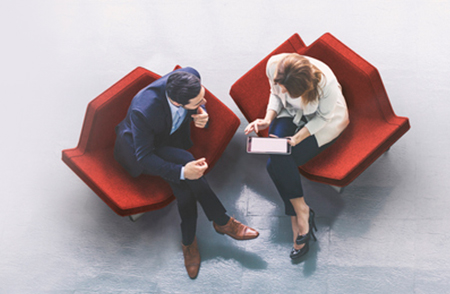
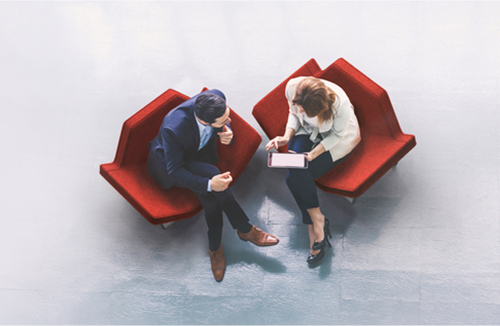
fix

diff --git a/source/index_vn.html b/source/index_vn.html
@@ -84,7 +84,7 @@ html {
                                   <td align="left" valign="top" style="margin: 0; padding: 15px 0; border: none; font-family: Arial, Helvetica, sans-serif !important; font-size: 16px; line-height: 1.3;">Chân thành cảm ơn Quý khách đã luôn đồng hành và tin chọn HSBC Premier trong hành trình tài chính và kết nối quốc tế của mình. Sự gắn bó của Quý khách là động lực để chúng tôi không ngừng nâng cao chất lượng dịch vụ và trải nghiệm.</td>
                                 </tr>
                                 <tr>
-                                  <td align="left" valign="top" style="margin: 0; padding: 0 0 0 15px; border-left: 2px solid #ed1c24; font-family: Arial, Helvetica, sans-serif !important; font-size: 16px; line-height: 1.3;">Trong tinh thần đó, chúng tôi hân hạnh thông báo một bước tiến mới: Phòng Giao Dịch HSBC Phú Mỹ Hưng sẽ được chuyển đến không gian mới cao cấp hơn.</td>
+                                  <td align="left" valign="top" style="margin: 0; padding: 0 0 0 15px; border-left: 2px solid #ed1c24; font-family: Arial, Helvetica, sans-serif !important; font-size: 16px; line-height: 1.3;">Trong tinh thần đó, chúng tôi hân hạnh thông báo một bước tiến mới: <span style="white-space: nowrap;">Phòng Giao Dịch HSBC</span> Phú Mỹ Hưng sẽ được chuyển đến không gian mới <span style="white-space: nowrap;">cao cấp hơn.</span></td>
                                 </tr>
                               </table></td>
                           </tr>
@@ -110,7 +110,7 @@ html {
                             <td align="left" valign="top" style="padding: 0; margin: 0; border: none; line-height: 1.2; font-size: 14px; font-family: Arial, Helvetica, sans-serif !important;">Đây không chỉ là việc thay đổi địa chỉ - mà là sự đổi mới trong trải nghiệm Premier của Quý khách. Sự nâng cấp này để hòa quyện cùng phong cách sống và nâng cao trải nghiệm Ngân hàng của Quý khách với chúng tôi. Tại không gian mới, mọi chi tiết đều được chăm chút để mang đến sự tiện nghi, riêng tư và hiện đại.</td>
                           </tr>
                         </table></td>
-                      <td width="225"><img src="image/chs_box_1.jpg" width="225" height="auto" alt="" style="display: block"/></td>
+                      <td width="250"><img src="image/chs_box_1.jpg" width="250" height="auto" alt="" style="display: block"/></td>
                       <td width="39"><img src="image/dash.png" width="39" height="auto" alt="" style="display: block"/></td>
                     </tr>
                   </table></td>

diff --git a/source/index_en.html b/source/index_en.html
@@ -81,7 +81,7 @@ html {
                                   <td align="left" valign="top" style="margin: 0; padding: 0; border: none; font-family: Arial, Helvetica, sans-serif !important; font-size: 16px; line-height: 1.3;">Dear Valued Premier Customer &lt;Name&gt;</td>
                                 </tr>
                                 <tr>
-                                  <td align="left" valign="top" style="margin: 0; padding: 15px 0; border: none; font-family: Arial, Helvetica, sans-serif !important; font-size: 16px; line-height: 1.3;">Thank you for your continued trust in HSBC Premier and for letting us be part of your financial and international journey. Your loyalty inspires us to continuously enhance the quality of service and experience we provide.</td>
+                                  <td align="left" valign="top" style="margin: 0; padding: 15px 0; border: none; font-family: Arial, Helvetica, sans-serif !important; font-size: 16px; line-height: 1.3;">Thank you for your continued trust in HSBC Premier and for letting us be part of <span style="white-space: nowrap;">your financial</span> and international journey. Your loyalty inspires us to continuously enhance <span style="white-space: nowrap;">the quality</span> of service and experience we provide.</td>
                                 </tr>
                                 <tr>
                                   <td align="left" valign="top" style="margin: 0; padding: 0 0 0 15px; border-left: 2px solid #ed1c24; font-family: Arial, Helvetica, sans-serif !important; font-size: 16px; line-height: 1.3;">In that spirit, we are delighted to share an exciting milestone: the HSBC Phu My Hung Transaction Office is moving to a new and upgraded space.</td>
@@ -110,7 +110,7 @@ html {
                             <td align="left" valign="top" style="padding: 0; margin: 0; border: none; line-height: 1.3; font-size: 14px; font-family: Arial, Helvetica, sans-serif !important;">This is more than a change of address - it’s a new chapter in your Premier experience. Designed around your lifestyle, the new location harmonizes comfort, privacy, and innovation to redefine the way you bank with us.</td>
                           </tr>
                         </table></td>
-                      <td width="225"><img src="image/chs_box_1.jpg" width="225" height="auto" alt="" style="display: block"/></td>
+                      <td width="250"><img src="image/chs_box_1.jpg" width="250" height="auto" alt="" style="display: block"/></td>
                       <td width="39"><img src="image/dash.png" width="39" height="auto" alt="" style="display: block"/></td>
                     </tr>
                   </table></td>
